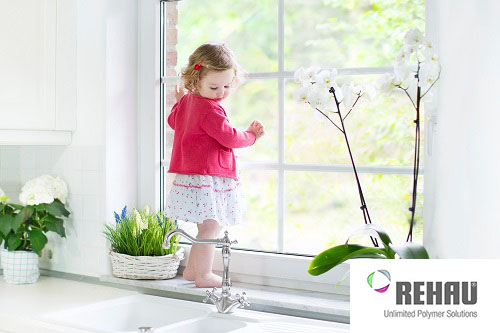
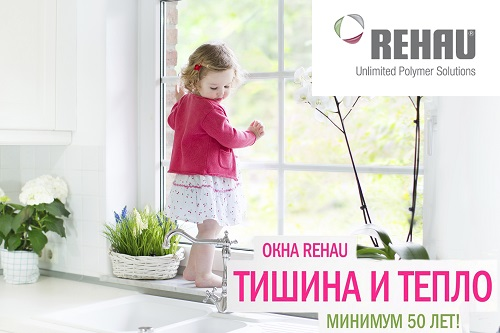
добавил слайдеры на главную и поменял картинки на странице окон

diff --git a/web/css/mystyle.css b/web/css/mystyle.css
@@ -208,9 +208,14 @@ body {
 	height: 40px;
 	position:absolute;top:0px;left:0px;
 }
+.rehau_backgr {
+	background-color: rgba(245, 245, 245, 0.71);
+	height: 60px;
+	position:absolute;top:0px;left:0px;
+}
 @media screen and (max-width: 750px){
 	.backgr {
-		height: 60px;
+		height: 40px;
 	}
 }
 #main-nav {
@@ -280,6 +285,7 @@ a:hover {
 		top: -5px; /* Расстояние от верхнего края */
 		left: 270px;
 	}
+
 	.mail_one {
 		position: absolute;
 		overflow: auto;
@@ -292,6 +298,16 @@ a:hover {
 }
 .color_icon {
 	color: #333;
+}
+.img_dealers {
+	height: 100px;
+	vertical-align: middle;
+	width: 80%;
+	margin-left: auto;
+	max-height: 100px;
+}
+.row_height {
+	height: 100px;
 }
 .icon_bt {
 	box-shadow: 0 0 7px #666666;

diff --git a/views/site/index.php b/views/site/index.php
@@ -65,7 +65,7 @@ $files = new Yii::$app->slid;
             <div class="news"></div>
             <div class="row">
                 <div class="col-md-5 col-sm-5 col-xs-12">
-                    
+
                     <h4 class="text-left">Почему выбирают нас?</h4>
                     <ul class="list_our">
                         <li>- опыт нашей работы более 10 лет</li>
@@ -94,20 +94,151 @@ $files = new Yii::$app->slid;
             </div>
             <div class="news"></div>
             <div class="rowpad row"></div>
-            <div class="row">
-                <a href="/dealers">
+            <div class="row ">
+
                     <div class="col-md-5 col-sm-5 col-xs-12">
-                        <h4 class="text-left">Наши партнеры</h4>
+                        <h4 class="text-center">Наши партнеры</h4>
+                        <div class="slider-dealers">
+                            <?php foreach ($files->readFiles("images/slider/client") as $file): ?>
+                                <div><img src="images/slider/client/<?= $file ?>.jpg" alt="Окно" id="modal_<?= $file ?>"
+                                          class="img-thumbnail center-block img-responsive img_dealers"></div>
+                            <?php endforeach; ?>
+                        </div>
+
+                        <script type="text/javascript" src="//code.jquery.com/jquery-migrate-1.2.1.min.js"></script>
+                        <script type="text/javascript" src="slick/slick.min.js"></script>
+                        <script type="text/javascript">
+                            $(document).ready(function () {
+                                $('.slider-dealers').slick({
+
+                                    autoplay: true,
+                                    autoplaySpeed: 2000,
+                                    dots: true,
+                                    speed: 300,
+                                    slidesToShow: 1,
+                                    slidesToScroll: 1,
+                                    responsive: [
+                                        {
+                                            breakpoint: 1024,
+                                            settings: {
+                                                slidesToShow: 1,
+                                                slidesToScroll: 1,
+                                                infinite: true,
+                                                dots: true
+                                            }
+                                        },
+                                        {
+                                            breakpoint: 600,
+                                            settings: {
+                                                slidesToShow: 1,
+                                                slidesToScroll: 1
+                                            }
+                                        },
+                                        {
+                                            breakpoint: 480,
+                                            settings: {
+                                                slidesToShow: 1,
+                                                slidesToScroll: 1
+                                            }
+                                        }
+                                        // You can unslick at a given breakpoint now by adding:
+                                        // settings: "unslick"
+                                        // instead of a settings object
+                                    ]
+                                });
+                            });
+                        </script>
                     </div>
-                </a>
                 <div class="col-md-1 col-sm-1 col-xs-0"></div>
-                <a href="/certificates"
-                    <div class="col-md-5 col-sm-5 col-xs-12">
-                        <h4 class="text-left">Сертификаты</h4>
+
+                    <div class="col-md-5 col-sm-5 col-xs-12 ">
+                        <h4 class="text-center">Сертификаты</h4>
+
+
+                        <div class="slider-index ">
+                            <?php foreach ($files->readFiles("images/slider/certificates") as $file): ?>
+                                <div><img src="images/slider/certificates/<?=$file?>.jpg" alt="Окно" id="modal_<?=$file?>"
+                                          class="img-thumbnail center-block img-responsive " onclick="modalShow();" ></div>
+                            <?php endforeach; ?>
+                        </div>
+
+                        <script type="text/javascript" src="//code.jquery.com/jquery-migrate-1.2.1.min.js"></script>
+                        <script type="text/javascript" src="slick/slick.min.js"></script>
+                        <script type="text/javascript">
+                            $(document).ready(function(){
+                                $('.slider-index').slick({
+
+                                    autoplay: true,
+                                    autoplaySpeed: 3000,
+                                    dots: true,
+                                    speed: 300,
+                                    slidesToShow: 4,
+                                    slidesToScroll: 4,
+                                    responsive: [
+                                        {
+                                            breakpoint: 1024,
+                                            settings: {
+                                                slidesToShow: 2,
+                                                slidesToScroll: 2,
+                                                infinite: true,
+                                                dots: true
+                                            }
+                                        },
+                                        {
+                                            breakpoint: 600,
+                                            settings: {
+                                                slidesToShow: 1,
+                                                slidesToScroll: 1
+                                            }
+                                        },
+                                        {
+                                            breakpoint: 480,
+                                            settings: {
+                                                slidesToShow: 1,
+                                                slidesToScroll: 1
+                                            }
+                                        }
+                                        // You can unslick at a given breakpoint now by adding:
+                                        // settings: "unslick"
+                                        // instead of a settings object
+                                    ]
+                                });
+                            });
+                        </script>
+
+
+                        <!-- HTML-код модального окна -->
+                        <div id="myModalBox" class="modal fade">
+                            <div class="modal-dialog">
+                                <div class="modal-content">
+                                    <!-- Заголовок модального окна -->
+                                    <!-- Основное содержимое модального окна -->
+                                    <div class="modal-body">
+                                        Содержимое модального окна...
+                                    </div>
+                                    <!-- Футер модального окна -->
+                                </div>
+                            </div>
+                        </div>
+
+                        <!-- Скрипт, вызывающий модальное окно после загрузки страницы -->
+                        <script>
+                            function modalShow() {
+
+                                var e = window.event;
+                                var obj = e.target||e.srcElement;
+                                $(".modal-body").html($("#"+obj.id).clone());
+                                $("#myModalBox").modal('show');
+                            };
+                        </script>
+
+
+
                     </div>
-                </a>
+
                 <div class="news2"></div>
             </div>
+        </div>
             <? include 'menu.php'; ?>
         </div>
     </div>

diff --git a/views/site/windowSelection.php b/views/site/windowSelection.php
@@ -43,9 +43,9 @@ $this->registerMetaTag([
 
                                 <a href="/windows/rehau">
                                     <div class="brus2">
-                                        <div class="backgr">
+                                        <div class="rehau_backgr">
                                             <h3 class="font_h3">
-                                                Тепло и тишина как минимум 50 лет!
+                                                Тишина и тепло <br/>минимум 50 лет!
                                             </h3>
                                         </div>
                                         <img src="/images/windows/rehau.jpg" class=" center-block">
